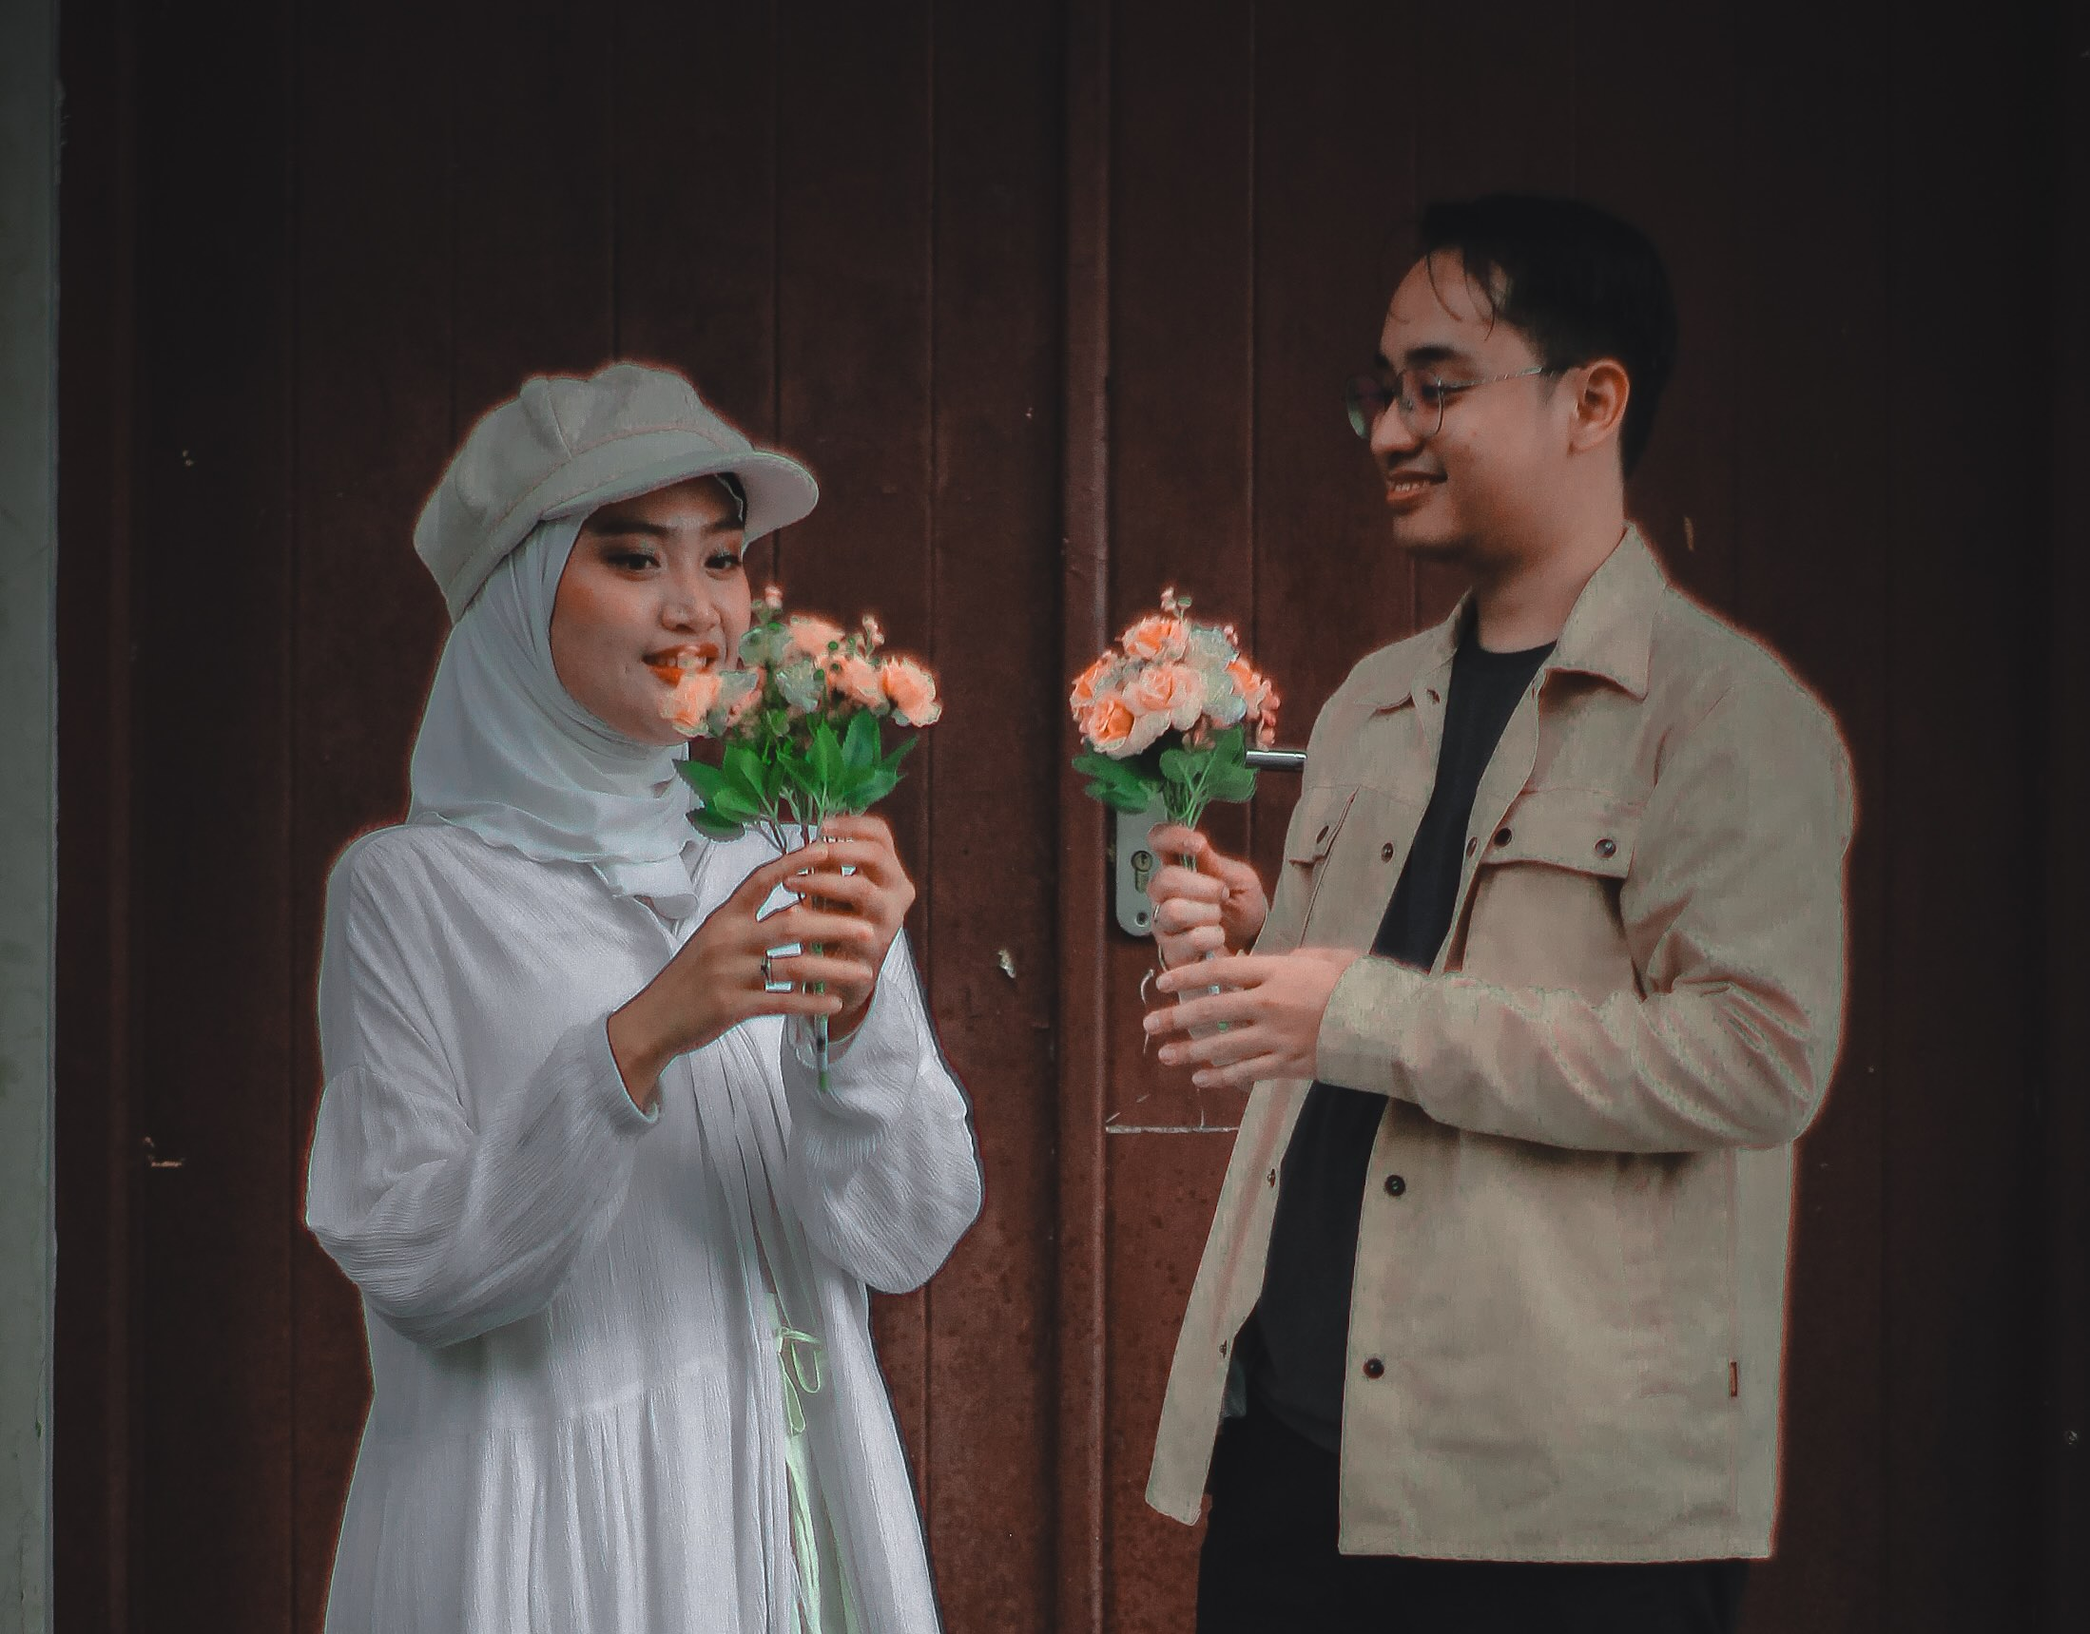
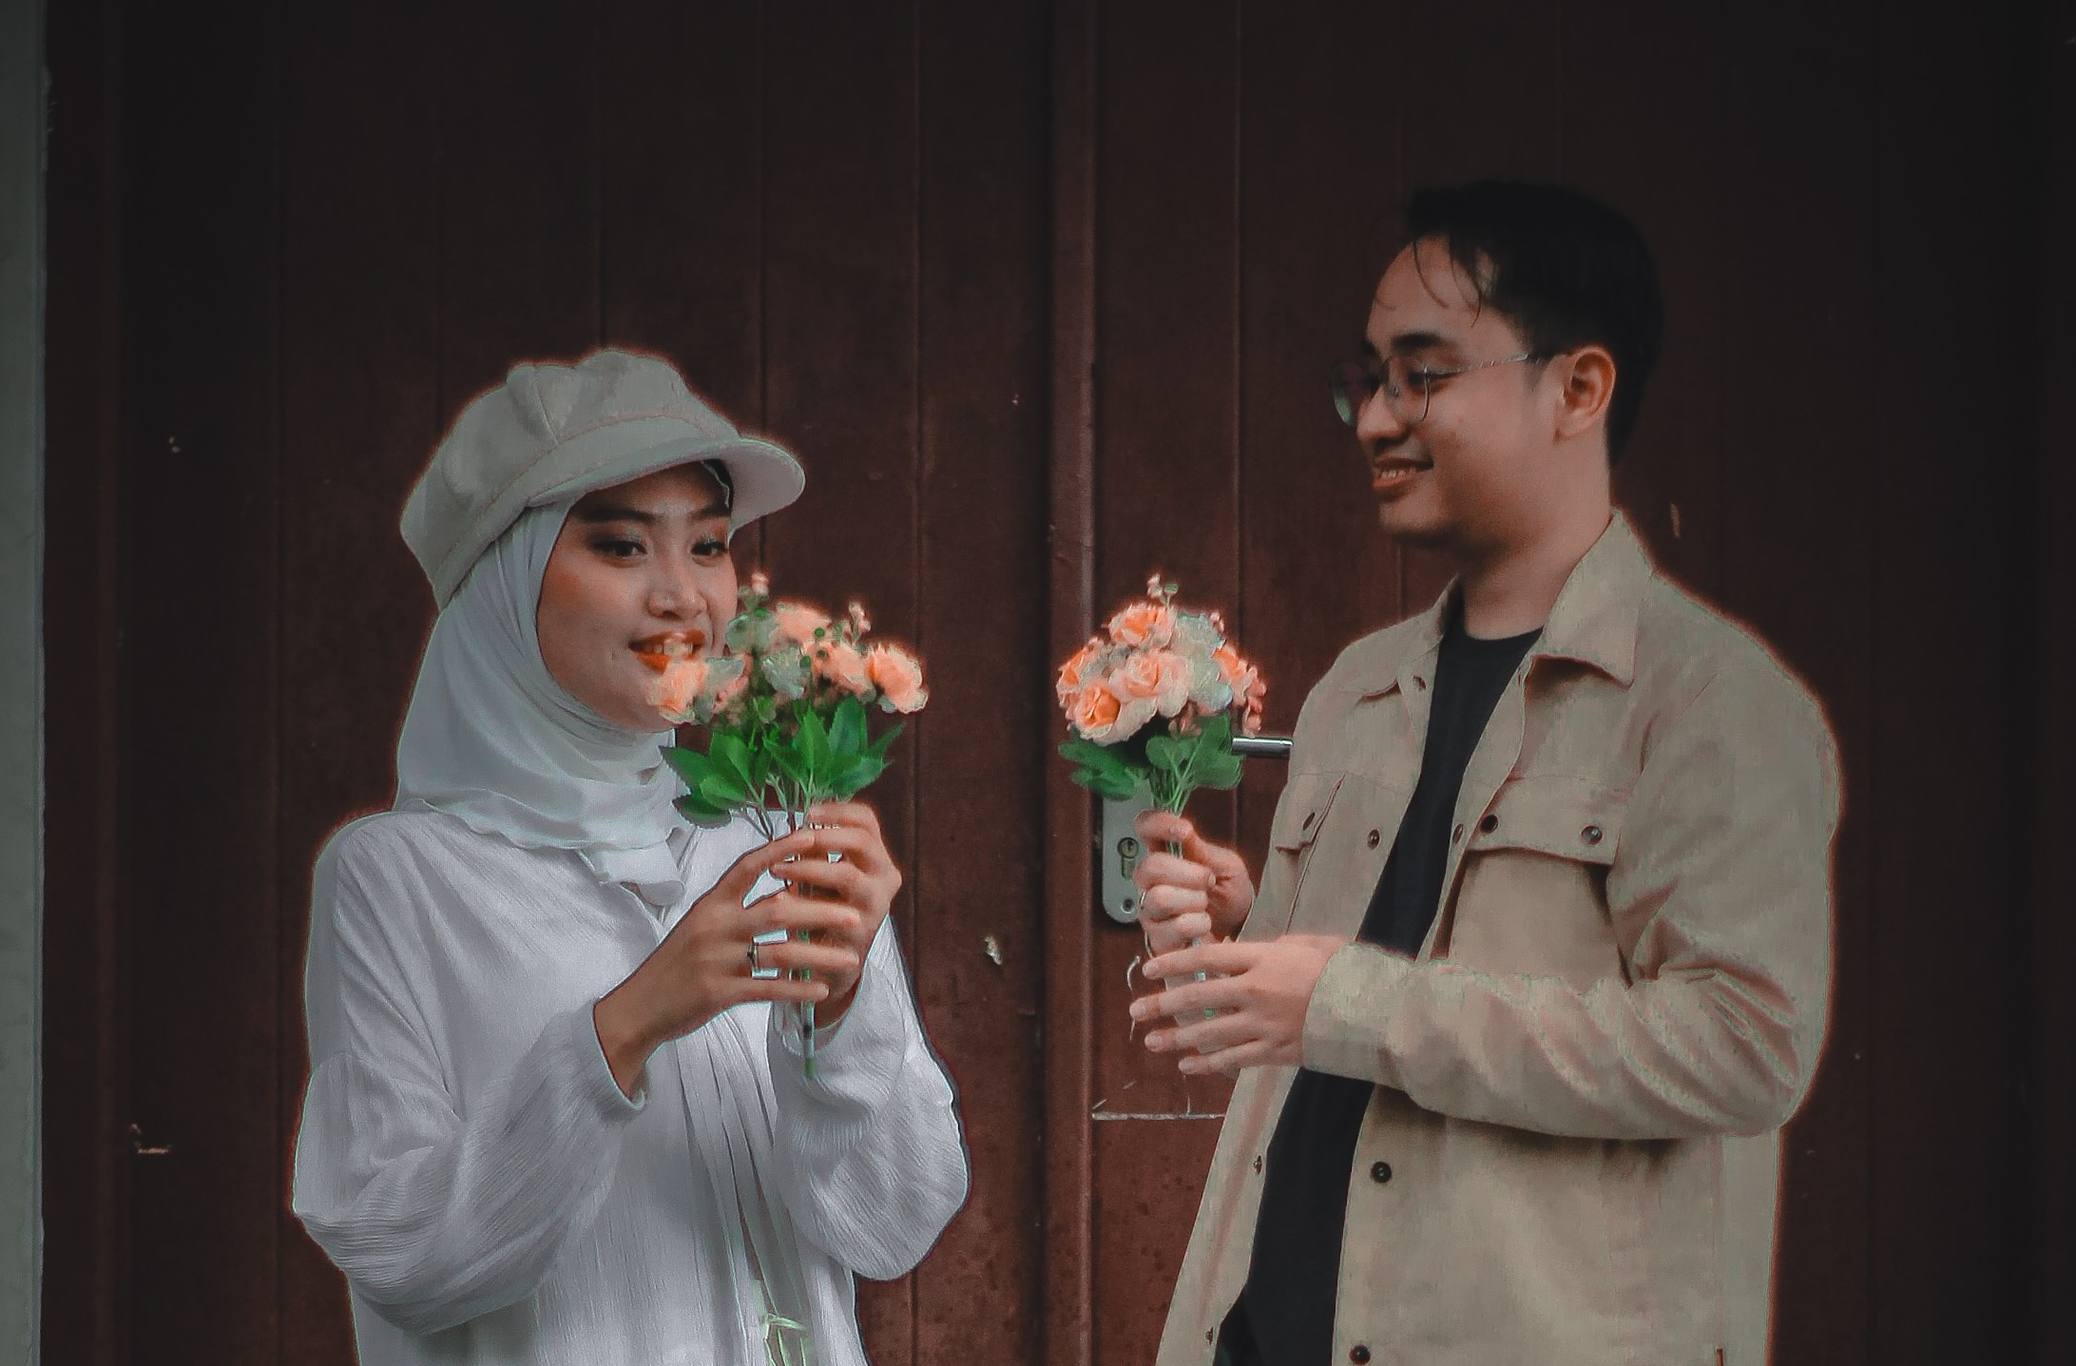
cukurukuk

diff --git a/index.html b/index.html
@@ -367,50 +367,30 @@
                                     <button type="button" data-bs-target="#carousel-image-one" data-bs-slide-to="4" aria-label="Slide 5"></button>
                                     <button type="button" data-bs-target="#carousel-image-one" data-bs-slide-to="5" aria-label="Slide 6"></button>
                                     <button type="button" data-bs-target="#carousel-image-one" data-bs-slide-to="6" aria-label="Slide 7"></button>
-                                    <button type="button" data-bs-target="#carousel-image-one" data-bs-slide-to="7" aria-label="Slide 8"></button>
-                                    <button type="button" data-bs-target="#carousel-image-one" data-bs-slide-to="8" aria-label="Slide 9"></button>
-                                    <button type="button" data-bs-target="#carousel-image-one" data-bs-slide-to="9" aria-label="Slide 10"></button>
-                                    <button type="button" data-bs-target="#carousel-image-one" data-bs-slide-to="10" aria-label="Slide 11"></button>
-                                    <button type="button" data-bs-target="#carousel-image-one" data-bs-slide-to="11" aria-label="Slide 12"></button>
                                 </div>
 
                                 <div class="carousel-inner rounded-4">
                                     <div class="carousel-item active">
-                                        <img src="./assets/images/placeholder.webp" data-src="./assets/images/foto-prewed/foto_1.jpg" alt="image 1" class="d-block img-fluid cursor-pointer" style="height: 300px; object-fit: cover;" onclick="undangan.guest.modal(this)">
+                                        <img src="./assets/images/placeholder.webp" data-src="./assets/images/foto-prewed/foto_4.jpg" alt="image 1" class="d-block img-fluid cursor-pointer" style="height: 300px; object-fit: cover;" onclick="undangan.guest.modal(this)">
                                     </div>
                                     <div class="carousel-item">
-                                        <img src="./assets/images/placeholder.webp" data-src="./assets/images/foto-prewed/foto_2.jpg" alt="image 2" class="d-block img-fluid cursor-pointer" style="height: 300px; object-fit: cover;" onclick="undangan.guest.modal(this)">
+                                        <img src="./assets/images/placeholder.webp" data-src="./assets/images/foto-prewed/foto_5.jpg" alt="image 2" class="d-block img-fluid cursor-pointer" style="height: 300px; object-fit: cover;" onclick="undangan.guest.modal(this)">
                                     </div>
                                     <div class="carousel-item">
-                                        <img src="./assets/images/placeholder.webp" data-src="./assets/images/foto-prewed/foto_3.jpg" alt="image 3" class="d-block img-fluid cursor-pointer" style="height: 300px; object-fit: cover;" onclick="undangan.guest.modal(this)">
+                                        <img src="./assets/images/placeholder.webp" data-src="./assets/images/foto-prewed/foto_8.jpg" alt="image 3" class="d-block img-fluid cursor-pointer" style="height: 300px; object-fit: cover;" onclick="undangan.guest.modal(this)">
                                     </div>
                                     <div class="carousel-item">
-                                        <img src="./assets/images/placeholder.webp" data-src="./assets/images/foto-prewed/foto_4.jpg" alt="image 4" class="d-block img-fluid cursor-pointer" style="height: 300px; object-fit: cover;" onclick="undangan.guest.modal(this)">
+                                        <img src="./assets/images/placeholder.webp" data-src="./assets/images/foto-prewed/foto_10.jpg" alt="image 4" class="d-block img-fluid cursor-pointer" style="height: 300px; object-fit: cover;" onclick="undangan.guest.modal(this)">
                                     </div>
                                     <div class="carousel-item">
-                                        <img src="./assets/images/placeholder.webp" data-src="./assets/images/foto-prewed/foto_5.jpg" alt="image 5" class="d-block img-fluid cursor-pointer" style="height: 300px; object-fit: cover;" onclick="undangan.guest.modal(this)">
+                                        <img src="./assets/images/placeholder.webp" data-src="./assets/images/foto-prewed/foto_11.jpg" alt="image 5" class="d-block img-fluid cursor-pointer" style="height: 300px; object-fit: cover;" onclick="undangan.guest.modal(this)">
                                         </div>
                                         <div class="carousel-item">
-                                        <img src="./assets/images/placeholder.webp" data-src="./assets/images/foto-prewed/foto_6.jpg" alt="image 6" class="d-block img-fluid cursor-pointer" style="height: 300px; object-fit: cover;" onclick="undangan.guest.modal(this)">
+                                        <img src="./assets/images/placeholder.webp" data-src="./assets/images/foto-prewed/foto_12.jpg" alt="image 6" class="d-block img-fluid cursor-pointer" style="height: 300px; object-fit: cover;" onclick="undangan.guest.modal(this)">
                                     </div>
                                     <div class="carousel-item">
-                                        <img src="./assets/images/placeholder.webp" data-src="./assets/images/foto-prewed/foto_7.jpg" alt="image 7" class="d-block img-fluid cursor-pointer" style="height: 300px; object-fit: cover;" onclick="undangan.guest.modal(this)">
+                                        <img src="./assets/images/placeholder.webp" data-src="./assets/images/foto-prewed/foto_14.jpg" alt="image 7" class="d-block img-fluid cursor-pointer" style="height: 300px; object-fit: cover;" onclick="undangan.guest.modal(this)">
                                         </div>
-                                    <div class="carousel-item">
-                                        <img src="./assets/images/placeholder.webp" data-src="./assets/images/foto-prewed/foto_8.jpg" alt="image 8" class="d-block img-fluid cursor-pointer" style="height: 300px; object-fit: cover;" onclick="undangan.guest.modal(this)">
-                                    </div>
-                                    <div class="carousel-item">
-                                        <img src="./assets/images/placeholder.webp" data-src="./assets/images/foto-prewed/foto_9.jpg" alt="image 9" class="d-block img-fluid cursor-pointer" style="height: 300px; object-fit: cover;" onclick="undangan.guest.modal(this)">
-                                    </div>
-                                    <div class="carousel-item">
-                                        <img src="./assets/images/placeholder.webp" data-src="./assets/images/foto-prewed/foto_10.jpg" alt="image 10" class="d-block img-fluid cursor-pointer" style="height: 300px; object-fit: cover;" onclick="undangan.guest.modal(this)"> 
-                                        </div>
-                                        <div class="carousel-item">
-                                        <img src="./assets/images/placeholder.webp" data-src="./assets/images/foto-prewed/foto_11.jpg" alt="image 11" class="d-block img-fluid cursor-pointer" style="height: 300px; object-fit: cover;" onclick="undangan.guest.modal(this)">
-                                    </div>
-                                    <div class="carousel-item">
-                                        <img src="./assets/images/placeholder.webp" data-src="./assets/images/foto-prewed/foto_12.jpg" alt="image 12" class="d-block img-fluid cursor-pointer" style="height: 300px; object-fit: cover;" onclick="undangan.guest.modal(this)">
-                                    </div>
                                 </div>
 
 
@@ -434,49 +414,31 @@
                                     <button type="button" data-bs-target="#carousel-image-one" data-bs-slide-to="4" aria-label="Slide 5"></button>
                                     <button type="button" data-bs-target="#carousel-image-one" data-bs-slide-to="5" aria-label="Slide 6"></button>
                                     <button type="button" data-bs-target="#carousel-image-one" data-bs-slide-to="6" aria-label="Slide 7"></button>
-                                    <button type="button" data-bs-target="#carousel-image-one" data-bs-slide-to="7" aria-label="Slide 8"></button>
-                                    <button type="button" data-bs-target="#carousel-image-one" data-bs-slide-to="8" aria-label="Slide 9"></button>
-                                    <button type="button" data-bs-target="#carousel-image-one" data-bs-slide-to="9" aria-label="Slide 10"></button>
-                                    <button type="button" data-bs-target="#carousel-image-one" data-bs-slide-to="10" aria-label="Slide 11"></button>
-                                    <button type="button" data-bs-target="#carousel-image-one" data-bs-slide-to="11" aria-label="Slide 12"></button>
-                                    <button type="button" data-bs-target="#carousel-image-one" data-bs-slide-to="12" aria-label="Slide 13"></button>
                                 </div>
 
                                 <div class="carousel-inner rounded-4">
                                     <div class="carousel-item active">
-                                        <img src="./assets/images/placeholder.webp" data-src="./assets/images/foto-prewed/foto_13.jpg" alt="image 1" class="d-block img-fluid cursor-pointer" style="height: 300px; object-fit: cover;" onclick="undangan.guest.modal(this)">
+                                        <img src="./assets/images/placeholder.webp" data-src="./assets/images/foto-prewed/foto_16.jpg" alt="image 1" class="d-block img-fluid cursor-pointer" style="height: 300px; object-fit: cover;" onclick="undangan.guest.modal(this)">
                                     </div>
                                     <div class="carousel-item">
-                                        <img src="./assets/images/placeholder.webp" data-src="./assets/images/foto-prewed/foto_14.jpg" alt="image 2" class="d-block img-fluid cursor-pointer" style="height: 300px; object-fit: cover;" onclick="undangan.guest.modal(this)">
+                                        <img src="./assets/images/placeholder.webp" data-src="./assets/images/foto-prewed/foto_17.jpg" alt="image 2" class="d-block img-fluid cursor-pointer" style="height: 300px; object-fit: cover;" onclick="undangan.guest.modal(this)">
                                     </div>
                                     <div class="carousel-item">
-                                        <img src="./assets/images/placeholder.webp" data-src="./assets/images/foto-prewed/foto_15.jpg" alt="image 3" class="d-block img-fluid cursor-pointer" style="height: 300px; object-fit: cover;" onclick="undangan.guest.modal(this)">
+                                        <img src="./assets/images/placeholder.webp" data-src="./assets/images/foto-prewed/foto_18.jpg" alt="image 3" class="d-block img-fluid cursor-pointer" style="height: 300px; object-fit: cover;" onclick="undangan.guest.modal(this)">
                                     </div>
                                     <div class="carousel-item">
-                                        <img src="./assets/images/placeholder.webp" data-src="./assets/images/foto-prewed/foto_16.jpg" alt="image 4" class="d-block img-fluid cursor-pointer" style="height: 300px; object-fit: cover;" onclick="undangan.guest.modal(this)">
+                                        <img src="./assets/images/placeholder.webp" data-src="./assets/images/foto-prewed/foto_19.jpg" alt="image 4" class="d-block img-fluid cursor-pointer" style="height: 300px; object-fit: cover;" onclick="undangan.guest.modal(this)">
                                         </div>
                                     <div class="carousel-item">
-                                        <img src="./assets/images/placeholder.webp" data-src="./assets/images/foto-prewed/foto_17.jpg" alt="image 5" class="d-block img-fluid cursor-pointer" style="height: 300px; object-fit: cover;" onclick="undangan.guest.modal(this)">
+                                        <img src="./assets/images/placeholder.webp" data-src="./assets/images/foto-prewed/foto_20.jpg" alt="image 5" class="d-block img-fluid cursor-pointer" style="height: 300px; object-fit: cover;" onclick="undangan.guest.modal(this)">
                                     </div>
                                     <div class="carousel-item">
-                                        <img src="./assets/images/placeholder.webp" data-src="./assets/images/foto-prewed/foto_18.jpg" alt="image 6" class="d-block img-fluid cursor-pointer" style="height: 300px; object-fit: cover;" onclick="undangan.guest.modal(this)">
+                                        <img src="./assets/images/placeholder.webp" data-src="./assets/images/foto-prewed/foto_22.jpg" alt="image 6" class="d-block img-fluid cursor-pointer" style="height: 300px; object-fit: cover;" onclick="undangan.guest.modal(this)">
                                     </div>
                                     <div class="carousel-item">
-                                        <img src="./assets/images/placeholder.webp" data-src="./assets/images/foto-prewed/foto_19.jpg" alt="image 7" class="d-block img-fluid cursor-pointer" style="height: 300px; object-fit: cover;" onclick="undangan.guest.modal(this)">
+                                        <img src="./assets/images/placeholder.webp" data-src="./assets/images/foto-prewed/foto_23.jpg" alt="image 7" class="d-block img-fluid cursor-pointer" style="height: 300px; object-fit: cover;" onclick="undangan.guest.modal(this)">
                                     </div>
-                                    <div class="carousel-item">
-                                        <img src="./assets/images/placeholder.webp" data-src="./assets/images/foto-prewed/foto_20.jpg" alt="image 8" class="d-block img-fluid cursor-pointer" style="height: 300px; object-fit: cover;" onclick="undangan.guest.modal(this)">
                                     </div>
-                                    <div class="carousel-item">
-                                        <img src="./assets/images/placeholder.webp" data-src="./assets/images/foto-prewed/foto_21.jpg" alt="image 8" class="d-block img-fluid cursor-pointer" style="height: 300px; object-fit: cover;" onclick="undangan.guest.modal(this)">
-                                    </div>
-                                    <div class="carousel-item">
-                                        <img src="./assets/images/placeholder.webp" data-src="./assets/images/foto-prewed/foto_22.jpg" alt="image 8" class="d-block img-fluid cursor-pointer" style="height: 300px; object-fit: cover;" onclick="undangan.guest.modal(this)">
-                                    </div>
-                                    <div class="carousel-item">
-                                        <img src="./assets/images/placeholder.webp" data-src="./assets/images/foto-prewed/foto_23.jpg" alt="image 8" class="d-block img-fluid cursor-pointer" style="height: 300px; object-fit: cover;" onclick="undangan.guest.modal(this)">
-                                    </div>
-</div>
                                 <button class="carousel-control-prev" type="button" data-bs-target="#carousel-image-two" data-bs-slide="prev">
                                     <span class="carousel-control-prev-icon" aria-hidden="true"></span>
                                     <span class="visually-hidden">Previous</span>
